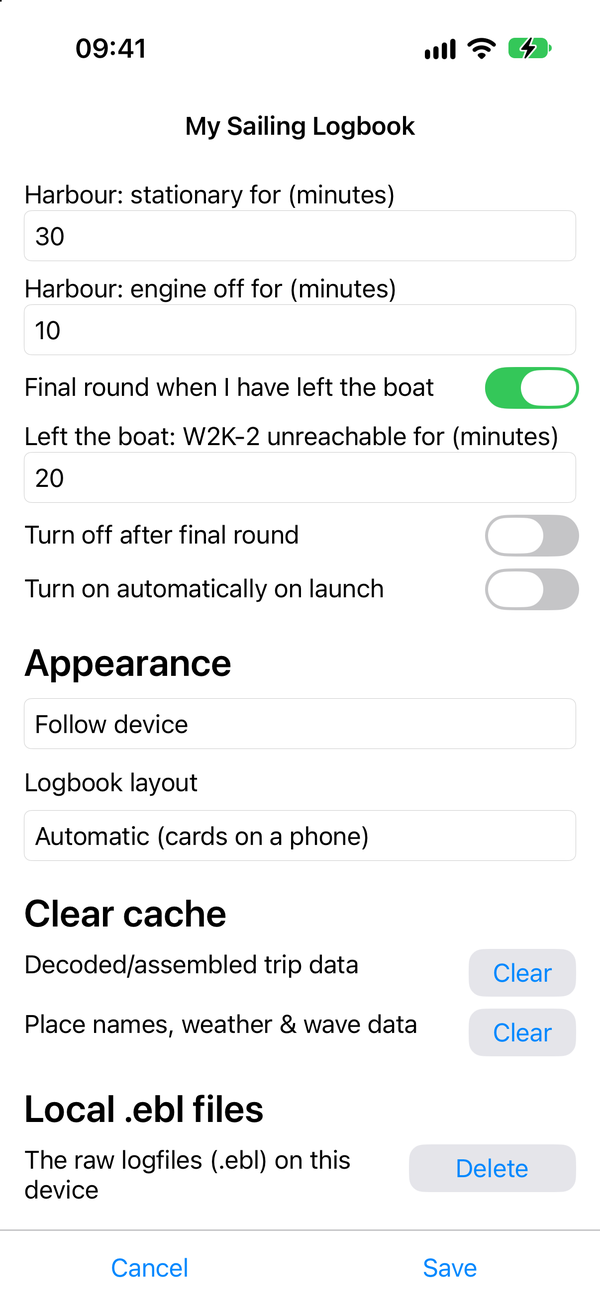
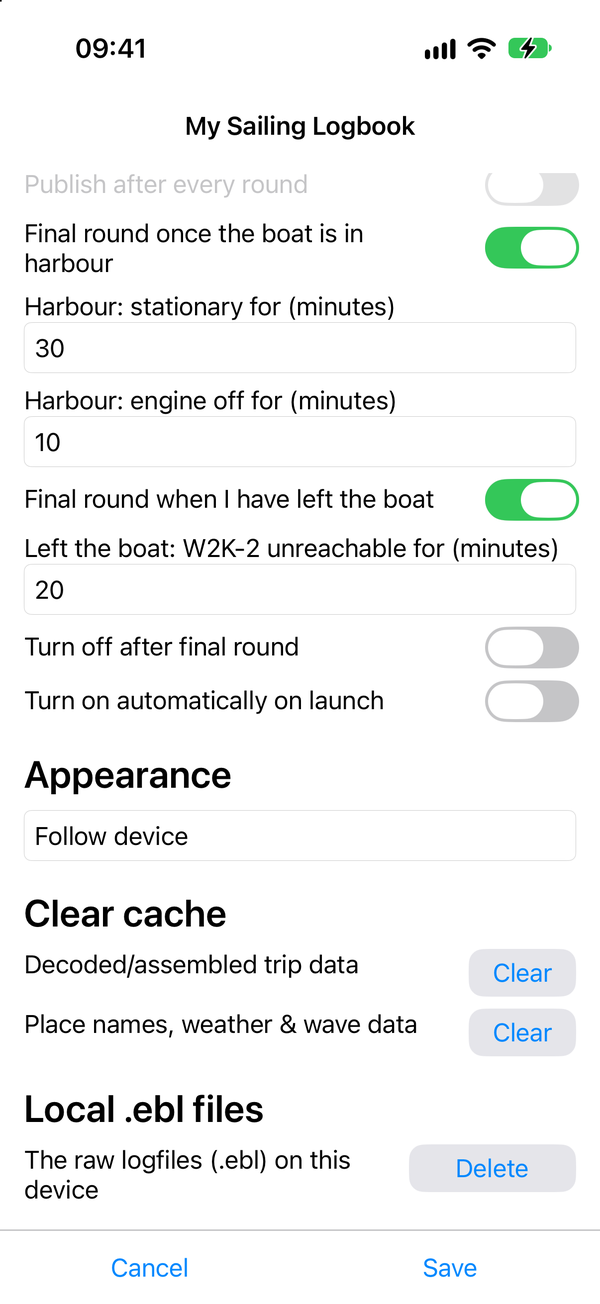
Help: a welcome the first time and Settings > Help and manual; the logbook layout is automatic
HelpScreen shows the shared help page (four languages) with this app's own screenshots (resources/help/img), refreshed from
GitHub at most once a day. The welcome is shown once, not to someone who has already filled in the W2K-2 login. The logbook layout
choice is gone from Settings (always automatic); the page follows the Appearance setting. Screenshots of Settings retaken.

diff --git a/mysailinglogbook/src/mysailinglogbook/app.py b/mysailinglogbook/src/mysailinglogbook/app.py
@@ -6,20 +6,23 @@ status area, logbook view) are the same; see the Android app's MainActivity.kt f
 reference behavior each of these will eventually need to match.
 """
 
+import asyncio
 import threading
 import time
 from pathlib import Path
 
 import toga
+from toga.dialogs import QuestionDialog
 from toga.style.pack import COLUMN, NONE, ROW, Pack
 
-from nmea2log import android_entry, app_constants, app_settings, import_ebl, run_outcome
+from nmea2log import android_entry, app_constants, app_settings, help_page, import_ebl, run_outcome
 from nmea2log import log as nmea_log
 from nmea2log.upload import UploadError, normalize_rest_upload_url, upload_via_rest
 
 from .boot_mode_controller import BACKGROUND_TASK_ID, BootModeController
 from . import native_ui
 from .network import detect_subnet_prefix
+from .help_screen import HelpScreen, cache_dir as help_cache_dir
 from .settings_screen import SettingsScreen
 from .settings_store import SettingsStore
 from .translations import t
@@ -223,6 +226,9 @@ class MySailingLogbook(toga.App):
         self.main_window.content = self.main_content
         self.apply_theme_mode()
         self.main_window.show()
+        # A newer help page from GitHub, when there is internet (at most once a day, quietly), and the welcome the first time.
+        threading.Thread(target=help_page.refresh, args=(help_cache_dir(self),), daemon=True).start()
+        self.loop.call_later(1.0, lambda: asyncio.ensure_future(self._maybe_show_help_welcome()))
 
         # Mirrors SyncState.inProgress/cancelled on Android (MainActivity.runSync()'s own
         # guard) -- only one sync/build runs at a time; tapping the button that started the run
@@ -312,12 +318,28 @@ class MySailingLogbook(toga.App):
         self.log("[info] " + t("status_listing_files", subnet=subnet_prefix))
         self._start_background(self._run_download, subnet_prefix, busy_button=self.download_button)
 
+    def show_help_screen(self) -> None:
+        self.main_window.content = HelpScreen(self, self.main_content).content
+
+    async def _maybe_show_help_welcome(self) -> None:
+        """The first time the app is opened: a short welcome that offers the help (also reachable from Settings, at the top).
+        Not for someone who has already filled in the W2K-2 login -- an update must not greet them as a newcomer. Marked as dealt
+        with straight away, so it is shown once whatever the answer."""
+        store = self.settings_store
+        if store.help_seen:
+            return
+        store.update(help_seen=True)
+        if store.w2k2_user.strip():
+            return
+        if await self.main_window.dialog(QuestionDialog(t("dialog_help_title"), t("dialog_help_message"))):
+            self.show_help_screen()
+
     def apply_logbook_prefs(self) -> None:
-        """Tells the logbook page the theme (Appearance) and layout (cards/table) chosen in Settings -- MainActivity's own
+        """Tells the logbook page the theme (Appearance) chosen in Settings -- MainActivity's own
         applyLogbookPrefs(). The page's own buttons store their choice in localStorage, which a web view does not keep between
         runs. Called when a page has loaded and when Settings were saved."""
         store = self.settings_store
-        self.web_view.evaluate_javascript(app_settings.logbook_prefs_script(store.theme_mode, store.logbook_view))
+        self.web_view.evaluate_javascript(app_settings.logbook_prefs_script(store.theme_mode))
 
     def apply_theme_mode(self) -> None:
         """Applies settings_store.theme_mode to the app's own UI (main_window and everything in

diff --git a/mysailinglogbook/src/mysailinglogbook/settings_screen.py b/mysailinglogbook/src/mysailinglogbook/settings_screen.py
@@ -28,6 +28,7 @@ from toga.style.pack import COLUMN, NONE, ROW, Pack
 from nmea2log import app_settings, ebl_storage
 
 from . import native_ui
+from .help_screen import HelpScreen
 from .settings_store import DEFAULT_MIN_STOP_MINUTES
 from .translations import t
 
@@ -61,6 +62,9 @@ class SettingsScreen:
         # A plain vertical Box (not yet in a ScrollContainer -- that wraps it below), same
         # top-to-bottom field order as SettingsActivity.kt's own layout.
         form = toga.Box(style=Pack(direction=COLUMN, margin=16))
+
+        # The help (shared with the Android app, see help_screen.py): there is no room for an icon in the toolbar.
+        form.add(toga.Button(t("button_help"), on_press=self._on_help, style=Pack(margin_top=4)))
 
         self._section_header(form, t("section_w2k2_boat"))
         self.user_field = self._field(form, t("label_w2k2_user"), self.store.w2k2_user)
@@ -187,22 +191,6 @@ class SettingsScreen:
             "system": self._theme_system,
         }.get(self.store.theme_mode, self._theme_system)
         form.add(self.theme_selection)
-
-        # How the logbook page lays out its trips; handed to the page after it has loaded (app.py's apply_logbook_prefs()),
-        # as the page's own buttons store their choice where the web view does not keep it.
-        form.add(toga.Label(t("label_logbook_layout"), style=Pack(margin_top=12)))
-        self._layout_auto = t("radio_layout_auto")
-        self._layout_cards = t("radio_layout_cards")
-        self._layout_table = t("radio_layout_table")
-        self.layout_selection = native_ui.closing_picker(
-            toga.Selection(items=[self._layout_auto, self._layout_cards, self._layout_table], style=Pack(margin_top=8)),
-            self.app.loop,
-        )
-        self.layout_selection.value = {
-            "cards": self._layout_cards,
-            "table": self._layout_table,
-        }.get(self.store.logbook_view, self._layout_auto)
-        form.add(self.layout_selection)
 
         # Same reasoning as SettingsActivity.kt's own clearCacheButton(): two separate buttons,
         # not one "clear everything" -- clearing the wrong cache is real, avoidable extra
@@ -379,6 +367,10 @@ class SettingsScreen:
         deleted, freed = ebl_storage.delete_all(folder)
         await self.app.main_window.dialog(InfoDialog(title, t("toast_ebl_files_deleted", count=deleted, size=freed)))
 
+    def _on_help(self, widget):
+        # Close brings this same screen back, so what was typed and not yet saved is still there.
+        self.app.main_window.content = HelpScreen(self.app, self.content).content
+
     async def _on_cancel(self, widget):
         self._remove_keyboard_avoidance()
         self.app.show_main_screen()
@@ -417,11 +409,6 @@ class SettingsScreen:
                 self._theme_dark: "dark",
                 self._theme_system: "system",
             }[self.theme_selection.value],
-            "logbook_view": {
-                self._layout_auto: "auto",
-                self._layout_cards: "cards",
-                self._layout_table: "table",
-            }[self.layout_selection.value],
         }
 
         # The details are always saved as typed, and the choice only says whether publishing is on -- picking

diff --git a/mysailinglogbook/src/mysailinglogbook/help_screen.py b/mysailinglogbook/src/mysailinglogbook/help_screen.py
@@ -1,0 +1,49 @@
+"""The help: one page shared with the Android app (nmea2log's assets/help/help.html, English, Dutch, French and German), in a web view.
+
+The page is the copy last downloaded from GitHub, or the one that came with the app (nmea2log/help_page.py); its screenshots
+are this app's own (resources/help/img/), embedded in the page because a web view cannot read files next to a page it was
+handed as a string. The page has no JavaScript. Links to the web open in Safari; links inside the page (#connect) stay.
+"""
+
+from __future__ import annotations
+
+from pathlib import Path
+
+import toga
+from toga.style.pack import COLUMN, Pack
+
+from nmea2log import help_page
+
+from . import native_ui
+from .translations import language, t
+
+_IMAGES_DIR = Path(__file__).parent / "resources" / "help" / "img"
+
+
+def cache_dir(app: toga.App) -> Path:
+    """Where the copy of the help page that was downloaded from GitHub is kept (iOS may clear caches when it needs the space;
+    the page that came with the app is then used again)."""
+    return Path(app.paths.cache) / "help"
+
+
+class HelpScreen:
+    """``content`` replaces the main window's content; Close puts ``back_content`` there again."""
+
+    def __init__(self, app: toga.App, back_content: toga.Widget) -> None:
+        self.app = app
+        self._back_content = back_content
+        html = help_page.inline_images(help_page.html_for_app(cache_dir(app), "ios", language()), _IMAGES_DIR)
+        web_view = toga.WebView(style=Pack(flex=1), on_navigation_starting=self._on_navigation)
+        web_view.set_content(f"file://{_IMAGES_DIR.parent}/", html)
+        close_button = toga.Button(t("button_close"), on_press=self._on_close, style=Pack(margin=8))
+        divider = toga.Box(style=Pack(height=1, background_color="#C6C6C8"))
+        self.content = toga.Box(children=[web_view, divider, close_button], style=Pack(direction=COLUMN))
+
+    def _on_navigation(self, widget, url: str, **kwargs) -> bool:
+        if url.startswith(("http://", "https://")):
+            native_ui.open_url(url)
+            return False
+        return True
+
+    def _on_close(self, widget) -> None:
+        self.app.main_window.content = self._back_content

diff --git a/mysailinglogbook/src/mysailinglogbook/native_ui.py b/mysailinglogbook/src/mysailinglogbook/native_ui.py
@@ -116,6 +116,19 @@ def round_corners(button, radius=10) -> None:
     native.clipsToBounds = True
 
 
+def open_url(url: str) -> None:
+    """Opens ``url`` in Safari."""
+    try:
+        nsurl = ObjCClass("NSURL").URLWithString(url)
+        try:
+            application = _UIApplication.sharedApplication
+            application.openURL(nsurl, options={}, completionHandler=None)
+        except Exception:
+            _UIApplication.sharedApplication().openURL(nsurl, options={}, completionHandler=None)
+    except Exception:
+        pass
+
+
 def set_idle_timer_disabled(disabled: bool) -> None:
     """Keeps the screen from auto-locking while boat mode is on: boat mode is foreground-only (iOS has no equivalent
     of Android's foreground service), so the app being suspended when the screen locks would stop it just as surely as

diff --git a/mysailinglogbook/tests/test_settings_store.py b/mysailinglogbook/tests/test_settings_store.py
@@ -127,3 +127,12 @@ def test_theme_mode_defaults_to_system_and_persists(tmp_path):
     reloaded = SettingsStore(tmp_path)
 
     assert reloaded.theme_mode == "dark"
+
+
+def test_help_seen_defaults_to_false_and_persists(tmp_path):
+    store = SettingsStore(tmp_path)
+    assert store.help_seen is False  # the welcome that offers the help has not been shown yet
+
+    store.update(help_seen=True)
+
+    assert SettingsStore(tmp_path).help_seen is True

diff --git a/mysailinglogbook/src/mysailinglogbook/translations.py b/mysailinglogbook/src/mysailinglogbook/translations.py
@@ -137,6 +137,11 @@ def detect_system_language() -> str:
 _LANGUAGE = detect_system_language()
 
 
+def language() -> str:
+    """The language of the UI (nl/en/fr/de), the device's own."""
+    return _LANGUAGE
+
+
 def t(key: str, **kwargs) -> str:
     """Looks up key in the device's own language (detected once at import time), falling back
     to English if the key or language is missing. kwargs are substituted into the string via

diff --git a/mysailinglogbook/src/mysailinglogbook/settings_store.py b/mysailinglogbook/src/mysailinglogbook/settings_store.py
@@ -161,5 +161,5 @@ class SettingsStore:
         return self._values["theme_mode"]
 
     @property
-    def logbook_view(self) -> str:
-        return self._values["logbook_view"]
+    def help_seen(self) -> bool:
+        return self._values["help_seen"]

diff --git a/README.md b/README.md
@@ -45,13 +45,13 @@ trips assembled from them.*
 
 <p>
 <img src="docs/screenshots/settings.png" width="230" alt="Settings: W2K-2, boat, trips, publish">
-<img src="docs/screenshots/settings-more.png" width="230" alt="Settings: appearance and the layout of the logbook, clearing the caches, deleting the local .ebl files">
+<img src="docs/screenshots/settings-more.png" width="230" alt="Settings: appearance, clearing the caches, deleting the local .ebl files">
 </p>
 
 *Settings (top and bottom).*
 
-Under Appearance you choose light, dark or following the device, and the layout of the logbook: a card per trip (what
-"automatic" picks on a phone held upright) or the table (what it picks on a wide screen).
+Under Appearance you choose light, dark or following the device (the default); the logbook follows it. On a phone held
+upright the logbook shows a card per trip, on a wide screen (a tablet in landscape) the table.
 
 <p>
 <img src="docs/screenshots/boat-mode.png" width="230" alt="Boat mode on: the filled sailboat button and its status in the log">
@@ -66,6 +66,10 @@ Under Appearance you choose light, dark or following the device, and the layout 
 **From source**: install it on your own iPhone (or the Simulator) with Xcode -- see Building. Requires iOS 15.0 or newer.
 
 ## Using the app
+
+The app has its own **help** (the same text in both apps, in English, Dutch, French and German): a short welcome offers it the first time
+the app starts, and it is under **Settings > Help and manual** (the button at the top). It is kept on the phone, so it works at
+sea, and refreshes itself from GitHub when there is internet.
 
 ### First-time setup
 

diff --git a/docs/developer-notes.md b/docs/developer-notes.md
@@ -180,3 +180,10 @@ Real gotchas found in practice, worth remembering:
   a *Launch Screen* storyboard, as opposed to a normal app screen (where a custom named color,
   untested here, may well work fine). Prefer a system color for anything Launch-Screen-related;
   don't assume a custom color asset that compiles cleanly also *resolves* correctly there.
+
+## The help
+
+The help (Settings > Help and manual, and a welcome the first time) is a page shared with the other app, kept in nmea2log:
+`assets/help/help.html`, shown by `HelpActivity` / `help_screen.py` and refreshed from GitHub by `nmea2log.help_page`. How it
+works, how to change the text, and which screenshots each app brings along:
+[nmea2log/docs/app-help.md](https://github.com/Ayuus/nmea2log/blob/main/docs/app-help.md).
